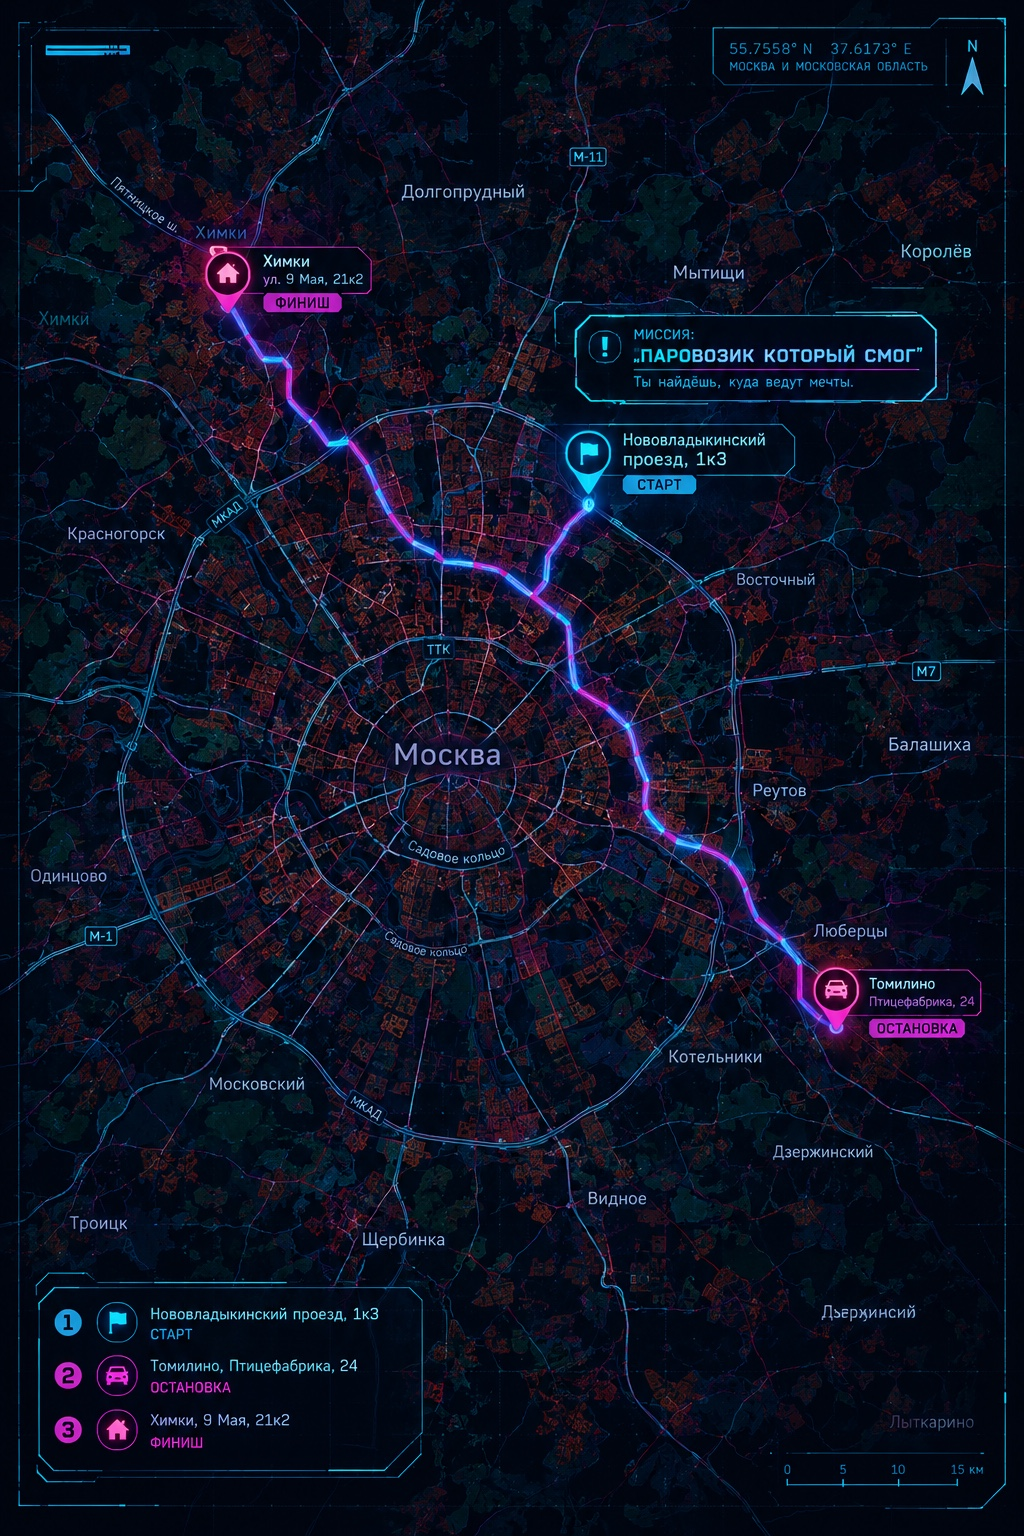
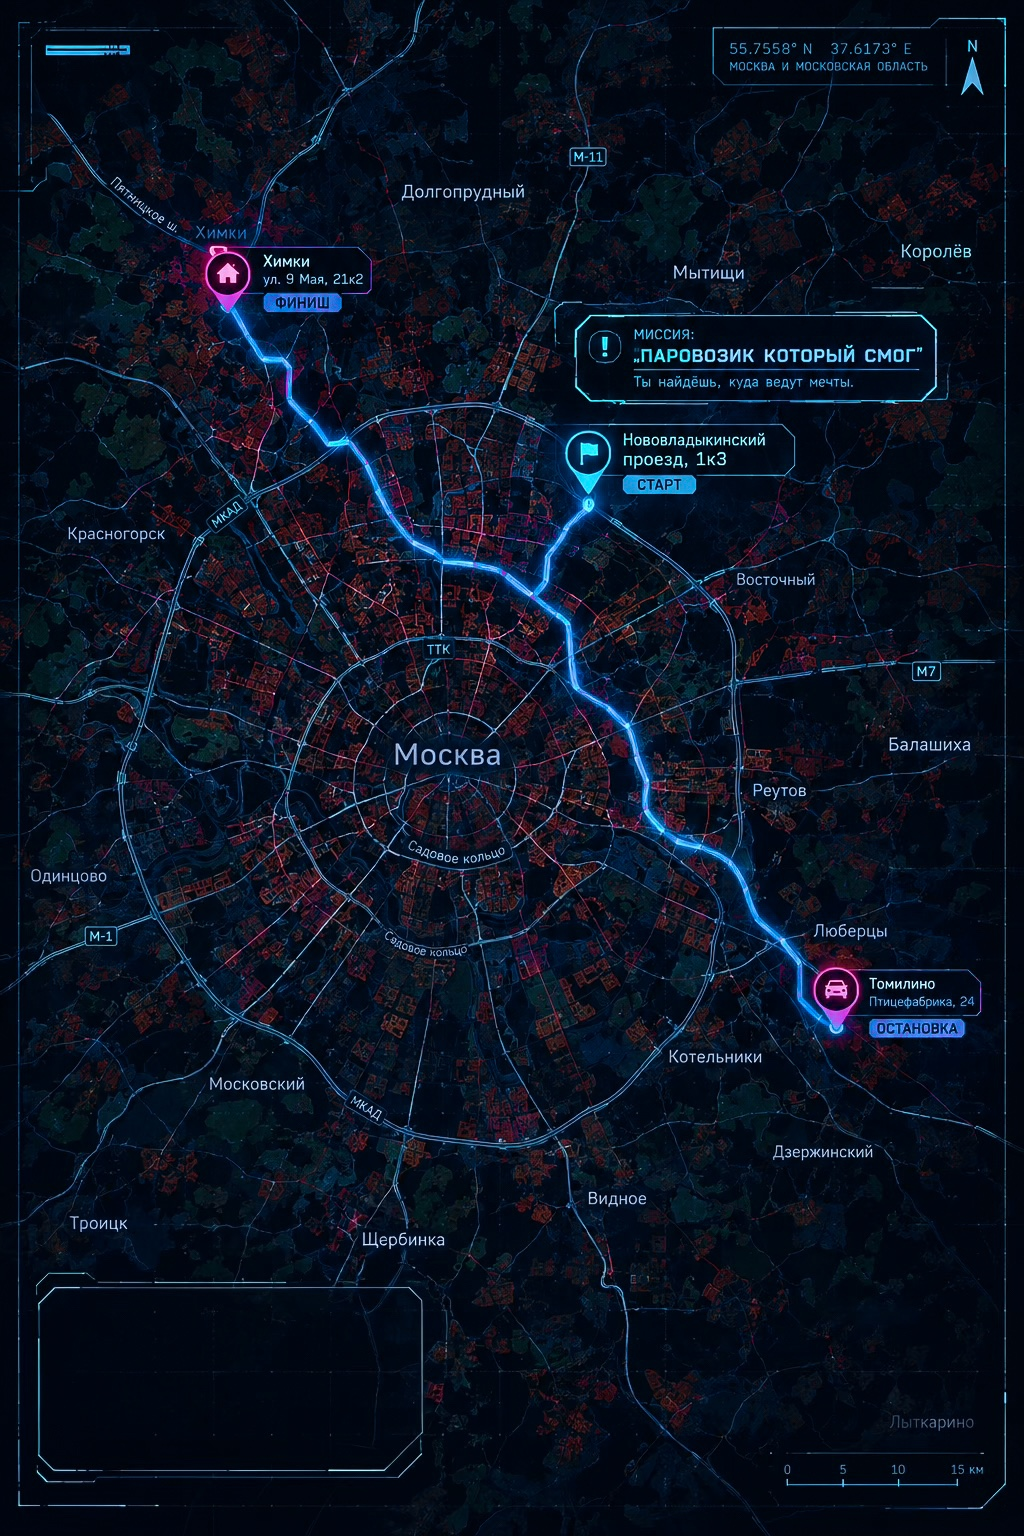
Add files via upload

diff --git a/index.html b/index.html
@@ -63,8 +63,12 @@ h2{font-size:clamp(28px,5vw,52px);line-height:1.02;text-transform:uppercase;marg
 .route-shell{border:1px solid rgba(92,246,255,.35);background:rgba(5,10,18,.88);padding:12px;margin:26px 0;position:relative;overflow:hidden}
 .route-top{display:flex;justify-content:space-between;gap:12px;align-items:center;flex-wrap:wrap;margin:0 0 12px;color:var(--cyan);font-size:10px;letter-spacing:.15em;text-transform:uppercase}
 .route-state{color:var(--pink)}
-.route-map{position:relative;width:100%;overflow:hidden;line-height:0;border:1px solid rgba(92,246,255,.2);background:#03070c}
-.route-map>img{display:block;width:100%;height:auto;opacity:.84}
+.route-map{position:relative;width:100%;overflow:hidden;line-height:0;border:1px solid rgba(92,246,255,.2);background:#03070c;isolation:isolate}
+.map-zoom-layer{position:relative;width:100%;transform:scale(1);transform-origin:57.5% 31.3%;transition:transform 1.7s cubic-bezier(.2,.8,.2,1),transform-origin 1.7s cubic-bezier(.2,.8,.2,1)}
+.map-zoom-layer>img{display:block;width:100%;height:auto;opacity:.84}
+.route-map.stage0 .map-zoom-layer{transform:scale(2.7);transform-origin:57.5% 31.3%}
+.route-map.stage1 .map-zoom-layer{transform:scale(2.7);transform-origin:81.5% 65.5%}
+.route-map.stage2 .map-zoom-layer{transform:scale(2.7);transform-origin:22.5% 17.5%}
 .route-svg{position:absolute;inset:0;width:100%;height:100%;pointer-events:none}
 .route-path{fill:none;stroke:#5cf6ff;stroke-width:7;stroke-linecap:round;stroke-linejoin:round;filter:drop-shadow(0 0 5px #5cf6ff) drop-shadow(0 0 12px #ff3f9d);stroke-dasharray:2600;stroke-dashoffset:2600;transition:stroke-dashoffset 2.1s ease}
 .route-map.stage1 .route-path.first{stroke-dashoffset:0}
@@ -74,7 +78,7 @@ h2{font-size:clamp(28px,5vw,52px);line-height:1.02;text-transform:uppercase;marg
 .route-pin:hover,.route-pin:focus-visible{transform:translate(-50%,-50%) scale(1.12);outline:2px solid white;outline-offset:3px}
 .route-pin.pinkpin{border-color:var(--pink);color:var(--pink);box-shadow:0 0 0 5px #ff3f9d25,0 0 20px #ff3f9d99}
 .route-pin.locked{opacity:0;pointer-events:none;transform:translate(-50%,-50%) scale(.4)}
-.route-pin.startpin{left:57.5%;top:31.3%}.route-pin.tompin{left:81.5%;top:66.2%}.route-pin.finishpin{left:22.5%;top:16.5%}
+.route-pin.startpin{left:57.5%;top:31.3%}.route-pin.tompin{left:81.5%;top:65.5%}.route-pin.finishpin{left:22.5%;top:17.5%}
 .route-legend{display:grid;grid-template-columns:repeat(3,minmax(0,1fr));gap:8px;margin-top:12px}
 .route-stop{border:1px solid rgba(138,160,183,.23);padding:10px;background:rgba(255,255,255,.025);font-size:10px;color:#8ca3b8;line-height:1.45}
 .route-stop strong{display:block;color:#dffaff;font-size:11px;margin-bottom:3px}
@@ -83,6 +87,7 @@ h2{font-size:clamp(28px,5vw,52px);line-height:1.02;text-transform:uppercase;marg
 @media(max-width:600px){.route-shell{padding:7px}.route-pin{width:34px;height:34px;font-size:14px}.route-legend{grid-template-columns:1fr}.route-stop{padding:8px}}
 
 @media(max-width:600px){.topbar{font-size:9px}.hero{min-height:75vh;padding:50px 0}.hero p{font-size:14px}.specgrid{grid-template-columns:1fr}.card{padding:9px}.caption{font-size:8px}.btn{width:100%;padding:15px 10px}.hero-meta{gap:12px}}
+@media (prefers-reduced-motion:reduce){.map-zoom-layer,.route-path,section{transition:none!important;animation:none!important;scroll-behavior:auto!important}}
 </style>
 </head>
 <body>
@@ -106,17 +111,16 @@ h2{font-size:clamp(28px,5vw,52px);line-height:1.02;text-transform:uppercase;marg
     <section id="routeMap">
       <div class="stephead"><span class="stepnum">ROUTE</span> NAVIGATION // MOSCOW REGION</div>
       <h2 id="mapHeading">Маршрут загружен не полностью</h2>
-      <p class="lead" id="mapLead">Система получила первую координату. Нажми на активную точку, чтобы открыть задание.</p>
+      <p class="lead" id="mapLead">Система получила первую координату. Карта приблизится к активной координате. Нажми на метку, чтобы открыть задание.</p>
       <div class="route-shell">
         <div class="route-top"><span>GPS // CONTRACT 320-G20</span><span class="route-state" id="routeState">1 / 3 COORDINATES FOUND</span></div>
         <div class="route-map stage0" id="routeMapCanvas">
-          <img src="route-map.jpg" alt="Киберпанк-карта маршрута по Москве и Московской области: старт, Томилино, финиш в Химках">
-          <svg class="route-svg" viewBox="0 0 1024 1536" preserveAspectRatio="none" aria-hidden="true">
-            <path class="route-path first" d="M589 480 L566 532 L594 565 L650 600 L655 675 L636 731 L687 784 L729 867 L775 930 L835 1017" /><path class="route-path second" d="M835 1017 L790 958 L750 890 L718 824 L675 770 L640 720 L585 680 L530 625 L470 590 L410 565 L350 520 L310 460 L270 395 L230 330 L230 252" />
-          </svg>
-          <button type="button" class="route-pin startpin" id="pinStart" aria-label="Открыть точку старта" title="Старт: Нововладыкинский проезд">⚑</button>
-          <button type="button" class="route-pin pinkpin tompin locked" id="pinTomilino" aria-label="Открыть точку Томилино" title="Томилино">Ⅱ</button>
-          <button type="button" class="route-pin pinkpin finishpin locked" id="pinFinish" aria-label="Открыть финиш в Химках" title="Финиш: Химки">⌂</button>
+          <div class="map-zoom-layer" id="mapZoomLayer">
+            <img src="route-map.jpg" alt="Киберпанк-карта маршрута по Москве и Московской области: старт, Томилино, финиш в Химках">
+            <button type="button" class="route-pin startpin" id="pinStart" aria-label="Открыть точку старта" title="Старт: Нововладыкинский проезд">⚑</button>
+            <button type="button" class="route-pin pinkpin tompin locked" id="pinTomilino" aria-label="Открыть точку Томилино" title="Томилино">Ⅱ</button>
+            <button type="button" class="route-pin pinkpin finishpin locked" id="pinFinish" aria-label="Открыть финиш в Химках" title="Финиш: Химки">⌂</button>
+          </div>
         </div>
         <div class="route-legend">
           <div class="route-stop unlocked" id="stopStart"><strong>01 · СТАРТ</strong>Нововладыкинский проезд, 1к3</div>
@@ -221,9 +225,9 @@ function showMap(stage){
  document.getElementById('stopTomilino').classList.toggle('unlocked',stage>=1);
  document.getElementById('stopFinish').classList.toggle('unlocked',stage>=2);
  const headings=[
-  ['Маршрут загружен не полностью','Система получила первую координату. Нажми на активную точку, чтобы открыть задание.','1 / 3 COORDINATES FOUND','Координата 01 доступна. Остальные точки откроются по мере прохождения контракта.'],
-  ['Следующая координата: Томилино','Цель подтверждена. Система прокладывает маршрут к точке, где объект был обнаружен после операции. Нажми на розовую метку Томилино.','2 / 3 COORDINATES FOUND','Маршрут до Томилино построен. Открой точку 02, чтобы передать фотодоказательства.'],
-  ['Финальная точка разблокирована','Доказательства приняты. Маршрут продолжается к финальной координате. Нажми на метку в Химках, чтобы завершить контракт.','3 / 3 COORDINATES FOUND','Все координаты получены. Точка в Химках ведёт к последнему сообщению заказчика.']
+  ['Маршрут загружен не полностью','Система получила первую координату. Карта приблизится к активной координате. Нажми на метку, чтобы открыть задание.','1 / 3 COORDINATES FOUND','Координата 01 доступна. Остальные точки откроются по мере прохождения контракта.'],
+  ['Следующая координата: Томилино','Цель подтверждена. Система прокладывает маршрут к точке, где объект был обнаружен после операции. Нажми на розовую метку Томилино.','2 / 3 COORDINATES FOUND','Карта приблизилась к Томилино. Открой точку 02, чтобы передать фотодоказательства.'],
+  ['Финальная точка разблокирована','Доказательства приняты. Маршрут продолжается к финальной координате. Нажми на метку в Химках, чтобы завершить контракт.','3 / 3 COORDINATES FOUND','Карта приблизилась к Химкам. Нажми на точку 03, чтобы прочитать последнее сообщение заказчика.']
  ];
  document.getElementById('mapHeading').textContent=headings[stage][0];
  document.getElementById('mapLead').textContent=headings[stage][1];
